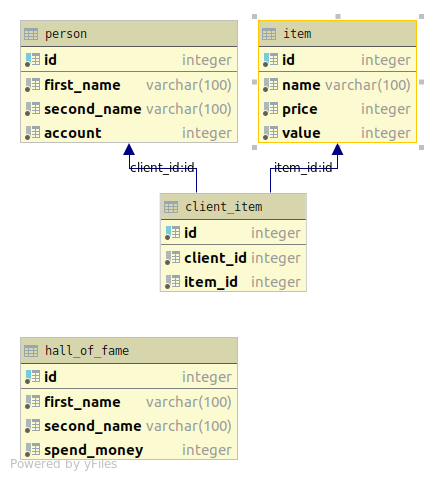
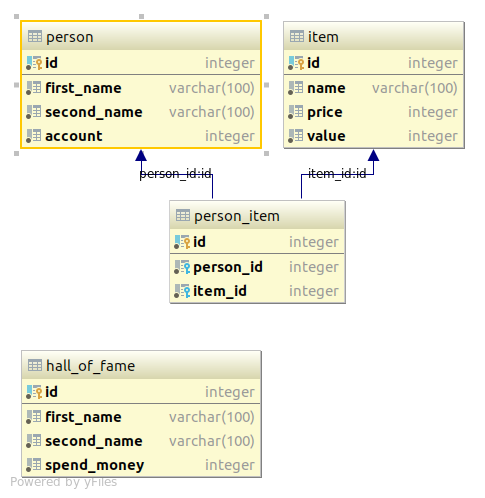
-minimal functionality works

Changed region(s): [[0.0297, 0.0312, 0.9817, 0.625], [0.0297, 0.6875, 0.5652, 1.0]]

diff --git a/damned_capitalism/managing/manager.py b/damned_capitalism/managing/manager.py
@@ -4,8 +4,9 @@ import os
 sys.path.append("%s/../../lab3" % os.getcwd())
 
 from db_generator import choose_variant_from_dict, get_input_int
-import generator as dc_gnr
-import statistic as dc_stat
+import generator as dcgen
+import statistic as dcstat
+import algorithms_runer as dcar
 
 import psycopg2
 import json
@@ -25,23 +26,17 @@ def parse_game_params(path):
     return max_time, account
 
 
-def try_commit(conn):
-    commit_allowed = choose_variant_from_dict(title="COMMIT CHANGES?", variants={0: 'no', 1: 'yes'})
-    if commit_allowed:
-        conn.commit()
-
-
 def store_json_for_current_game(cursor, path, account, max_time):
     cursor.execute("select id,price,value from item;")
-    items = np.array(cursor.fetchall()).transpose()
-    j_dict = {"ids": items[0],
-              "prices": items[1],
-              "values": items[2],
+    items = np.array(cursor.fetchall()).transpose().astype(int)
+    j_dict = {"ids": list(items[0]),
+              "prices": list(items[1]),
+              "values": list(items[2]),
               "account": account,
               "max_time": max_time}
 
     with open(path, "w") as fp:
-        json.dump(j_dict, fp)
+        json.dump(j_dict, fp, default=int)  # best bone in my life
 
     pass
 
@@ -53,7 +48,7 @@ if __name__ == '__main__':
 
     # --------------------------- initializing --------------------------------------
     pretty_print("initializing")
-    dc_gnr.init_generator_params_from_json("../cfg/generator_cfg.json")
+    dcgen.init_generator_params_from_json("../cfg/generator_cfg.json")
 
     db_name = 'damned_capitalism'
     login = "manager"
@@ -74,12 +69,15 @@ if __name__ == '__main__':
 
         # ------------------------ new game --------------------------------------
         if ti == 0:
-            dc_gnr.generate_new_game(cursor=cursor)
-            try_commit(conn)
+            dcgen.generate_new_game(cursor=cursor)
+            conn.commit()
             max_time, account = parse_game_params("../cfg/game_cfg.json")
             store_json_for_current_game(cursor=cursor,
-                                        path="../res/algorithms/items.json",
+                                        path="../algorithms/items.json",
                                         account=account, max_time=max_time)
+            dcar.run_all(cursor, "../cfg/game_algorithms.json", max_time=max_time)
+            conn.commit()
+            dcstat.show_results(cursor)
 
         if ti == 1:
             print("TODO show hall of fame")

diff --git a/damned_capitalism/managing/algorithms_runer.py b/damned_capitalism/managing/algorithms_runer.py
@@ -1,0 +1,46 @@
+import json
+import os
+import time
+
+
+def run_script(alg_dir, interp, exec, max_time):
+    cmd_run = "%s %s/%s -i ../algorithms/items.json -o %s/answer.json" % \
+              (interp, alg_dir, exec, alg_dir,)
+    print("run \n%s\n" % cmd_run)
+
+    start_time = time.time()
+    os.system(cmd_run)
+    exec_time = time.time() - start_time
+
+    if exec_time > max_time + 0.5:
+        with open(alg_dir + "/answer.json", "w") as fp:
+            json.dump([], fp)
+
+
+def parse_cfg_of_alg(path_to_cfg):
+    alg_dict = json.load(open(path_to_cfg + "/configuration.json", 'r'))
+    return alg_dict.__getitem__("first_name"), alg_dict.__getitem__("second_name"), \
+           alg_dict.__getitem__("interp"), alg_dict.__getitem__("exec_name")
+
+
+def insert_result_to_db(cursor, alg_dir, person_id):
+    it_ids = json.load(open(alg_dir + "/answer.json", 'r'))
+    req = "insert into person_item values (default, %d, " % person_id
+    for it_id in it_ids:
+        cursor.execute(req + "%d);" % it_id)
+
+
+def run_all(cursor, path_to_galg, max_time):
+    algs_list = json.load(open(path_to_galg, 'r'))
+    person_id = 0
+    for alg_dir in algs_list:
+        alg_dir = "../algorithms/" + alg_dir
+
+        fname, sname, interp, exec = parse_cfg_of_alg(alg_dir)
+        cursor.execute("insert into person values(%d, '%s', '%s', 1000);" % (person_id, fname, sname))
+
+        run_script(alg_dir, interp, exec, max_time=max_time)
+
+        insert_result_to_db(cursor, alg_dir, person_id)
+
+        person_id += 1

diff --git a/damned_capitalism/algorithms/simple_random_2/simple_random_2.py b/damned_capitalism/algorithms/simple_random_2/simple_random_2.py
@@ -1,0 +1,43 @@
+import argparse
+import sys
+import time
+import json
+
+
+def filling_algorithm(max_time, ids, prices, values, account):
+    s_time = time.time()
+    # ---------------- calculate answer ---------------------------
+    while (time.time() - s_time) < max_time:
+        answer = [2, 3, 4, 5]
+
+    return answer
+
+
+if __name__ == '__main__':
+    # ------------------ parsing arguments for connection creating -----------------------
+    need_args = 5
+
+    if sys.argv.__len__() != need_args:
+        raise Exception("Illegal amount of arguments != %d" % need_args)
+    parser = argparse.ArgumentParser()
+
+    parser.add_argument("-i", "--input_file", type=str,
+                        help="password for user")
+
+    parser.add_argument("-o", "--output_file", type=str,
+                        help="your bank account")
+
+    args = parser.parse_args()
+
+    game_dict = json.load(open(args.input_file, 'r'))
+
+    selected_ids = filling_algorithm(
+        max_time=game_dict.__getitem__("max_time"),
+        account=game_dict.__getitem__("account"),
+        ids=game_dict.__getitem__("ids"),
+        prices=game_dict.__getitem__("prices"),
+        values=game_dict.__getitem__("values")
+    )
+
+    with open(args.output_file, "w") as fp:
+        json.dump(selected_ids, fp)

diff --git a/lab3/db_generator.py b/lab3/db_generator.py
@@ -137,7 +137,7 @@ def get_random_name(rn, min_size, max_size):
 
 
 # ------------------------------ MAIN METHOD FOR TABLES FILLING---------------------------
-def add_into_table(cursor, table_name, fields, min_av, max_av, bounds=None, lines_amount=None):
+def add_into_table(cursor, table_name, fields, min_av=None, max_av=None, bounds=None, lines_amount=None, verbose=False):
     """
     :param cursor: cursor to database
     :param table_name: name of fielded table
@@ -151,8 +151,10 @@ def add_into_table(cursor, table_name, fields, min_av, max_av, bounds=None, line
     rn = RandomNicknames()
 
     if lines_amount == None:
+        if min_av == None or max_av == None: raise Exception("nor lines_amount or min_av & max_av passed")
         lines_amount = get_input_int(title="HOW MANY?[%d - %d]" % (min_av, max_av), min=min_av, max=max_av)
 
+    print("generate %d lines for table %s..." % (lines_amount, table_name))
     for i in range(0, lines_amount):
 
         request = "insert into %s values(" % table_name
@@ -204,7 +206,7 @@ def add_into_table(cursor, table_name, fields, min_av, max_av, bounds=None, line
 
         request = request[:request.__len__() - 1] + ")"
 
-        print(request)
+        if verbose: print(request)
         cursor.execute(request)
 
     pass

diff --git a/damned_capitalism/algorithms/simple_random_1/simple_random_1.py b/damned_capitalism/algorithms/simple_random_1/simple_random_1.py
@@ -4,11 +4,11 @@ import time
 import json
 
 
-def filling_algorithm(max_time, id, price, value, account):
+def filling_algorithm(max_time, ids, prices, values, account):
     s_time = time.time()
     # ---------------- calculate answer ---------------------------
     while (time.time() - s_time) < max_time:
-        answer = [0, 1, 2, 3]
+        answer = [1, 2, 3, 4]
 
     return answer
 
@@ -27,9 +27,17 @@ if __name__ == '__main__':
     parser.add_argument("-o", "--output_file", type=str,
                         help="your bank account")
 
-
     args = parser.parse_args()
 
-    array = json.load(open(args.input_file, 'r'))
+    game_dict = json.load(open(args.input_file, 'r'))
 
-    choosed_ids = filling_algorithm()
+    selected_ids = filling_algorithm(
+        max_time=game_dict.__getitem__("max_time"),
+        account=game_dict.__getitem__("account"),
+        ids=game_dict.__getitem__("ids"),
+        prices=game_dict.__getitem__("prices"),
+        values=game_dict.__getitem__("values")
+    )
+
+    with open(args.output_file, "w") as fp:
+        json.dump(selected_ids, fp)

diff --git a/damned_capitalism/managing/statistic.py b/damned_capitalism/managing/statistic.py
@@ -1,20 +1,9 @@
 from db_generator import choose_variant_from_dict
 
-avail_stat_dict = {0: 'common statistic', 1: 'most economical', 2: 'most wasteful', 99: 'exit'}
 
-
-def get_stat():
-    go_back = False
-
-    while not go_back:
-        stat_i = choose_variant_from_dict("AVAILABLE STATISTIC:", avail_stat_dict)
-
-        if stat_i == 0:
-            print('TODO run script for common statistic\n')
-        elif stat_i == 1:
-            print("TODO run script for most economical\n")
-        elif stat_i == 2:
-            print("TODO run script for most wasteful\n")
-
-        elif stat_i == 99:
-            go_back = True
+def show_results(cursor):
+    cursor.execute("select * from order_by_score();")
+    result = cursor.fetchall()
+    print("fname\t\t\tsname\t\t\t\t\tscore")
+    for fname, sname, score in result:
+        print("%s\t\t\t%s\t\t\t%d" % (fname, sname, score))

diff --git a/damned_capitalism/managing/generator.py b/damned_capitalism/managing/generator.py
@@ -1,6 +1,7 @@
 from db_generator import *
 import json
 
+
 # ------------------------ parameters for generation -----------------------------------
 MIN_PRICE = 0
 MAX_PRICE = 0
@@ -63,12 +64,8 @@ def init_table_with_json(cursor, tab_name, json_path):
 
 def generate_new_game(cursor):
     # -------------------- clean tables ---------------------------------
-    for tab_name in ('client_item', 'item', 'person'):
+    for tab_name in ('person_item', 'item', 'person'):
         cursor.execute("delete from %s * cascade;" % tab_name)
-
-    # -------------------- init persons -------------------------
-    for tab_name in ('person',):
-        init_table_with_json(cursor=cursor, tab_name=tab_name, json_path="../res/%ss.json" % tab_name)
 
     # --------------- generate items ----------------------
     add_into_table(
